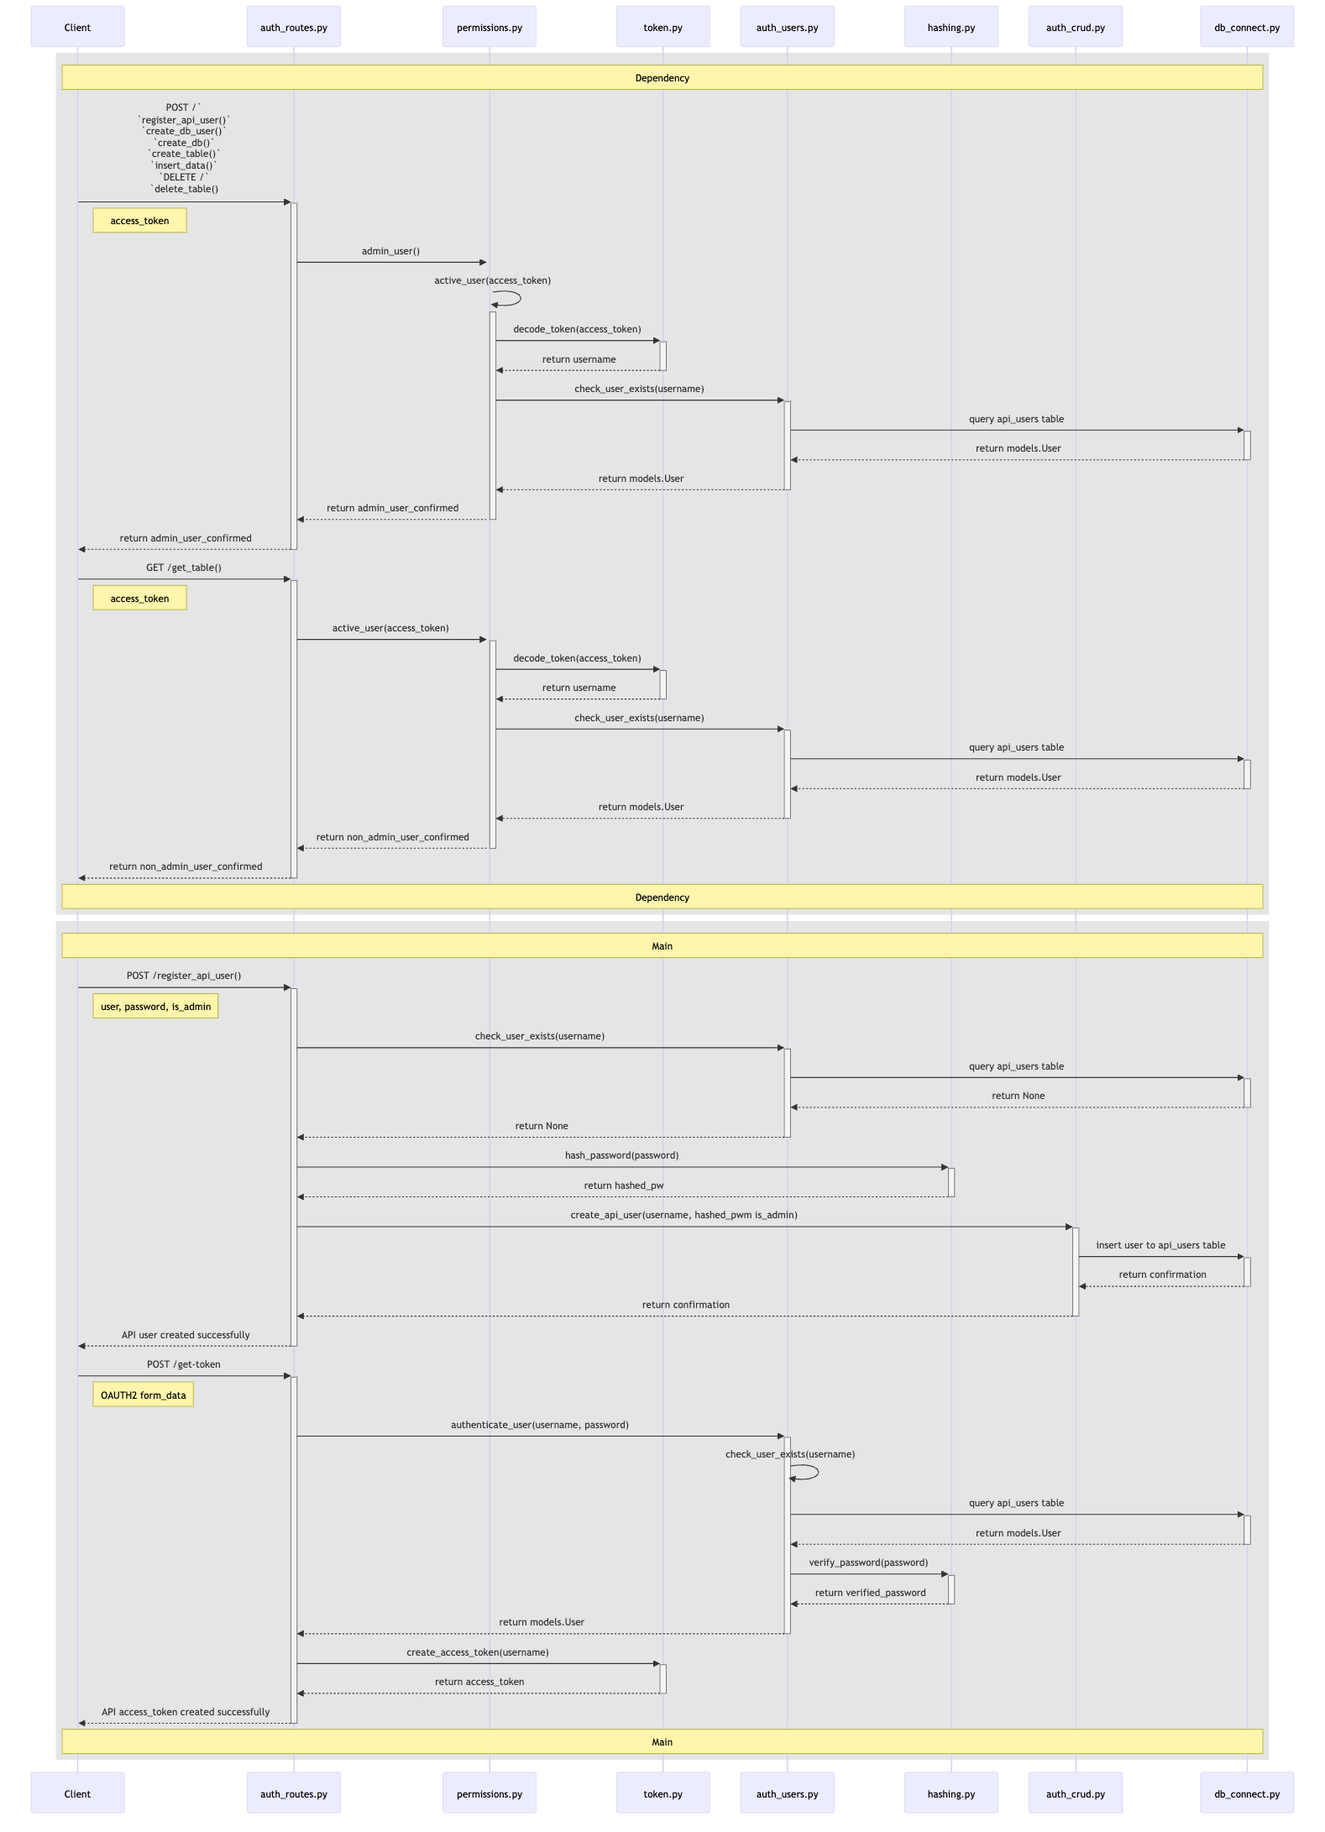
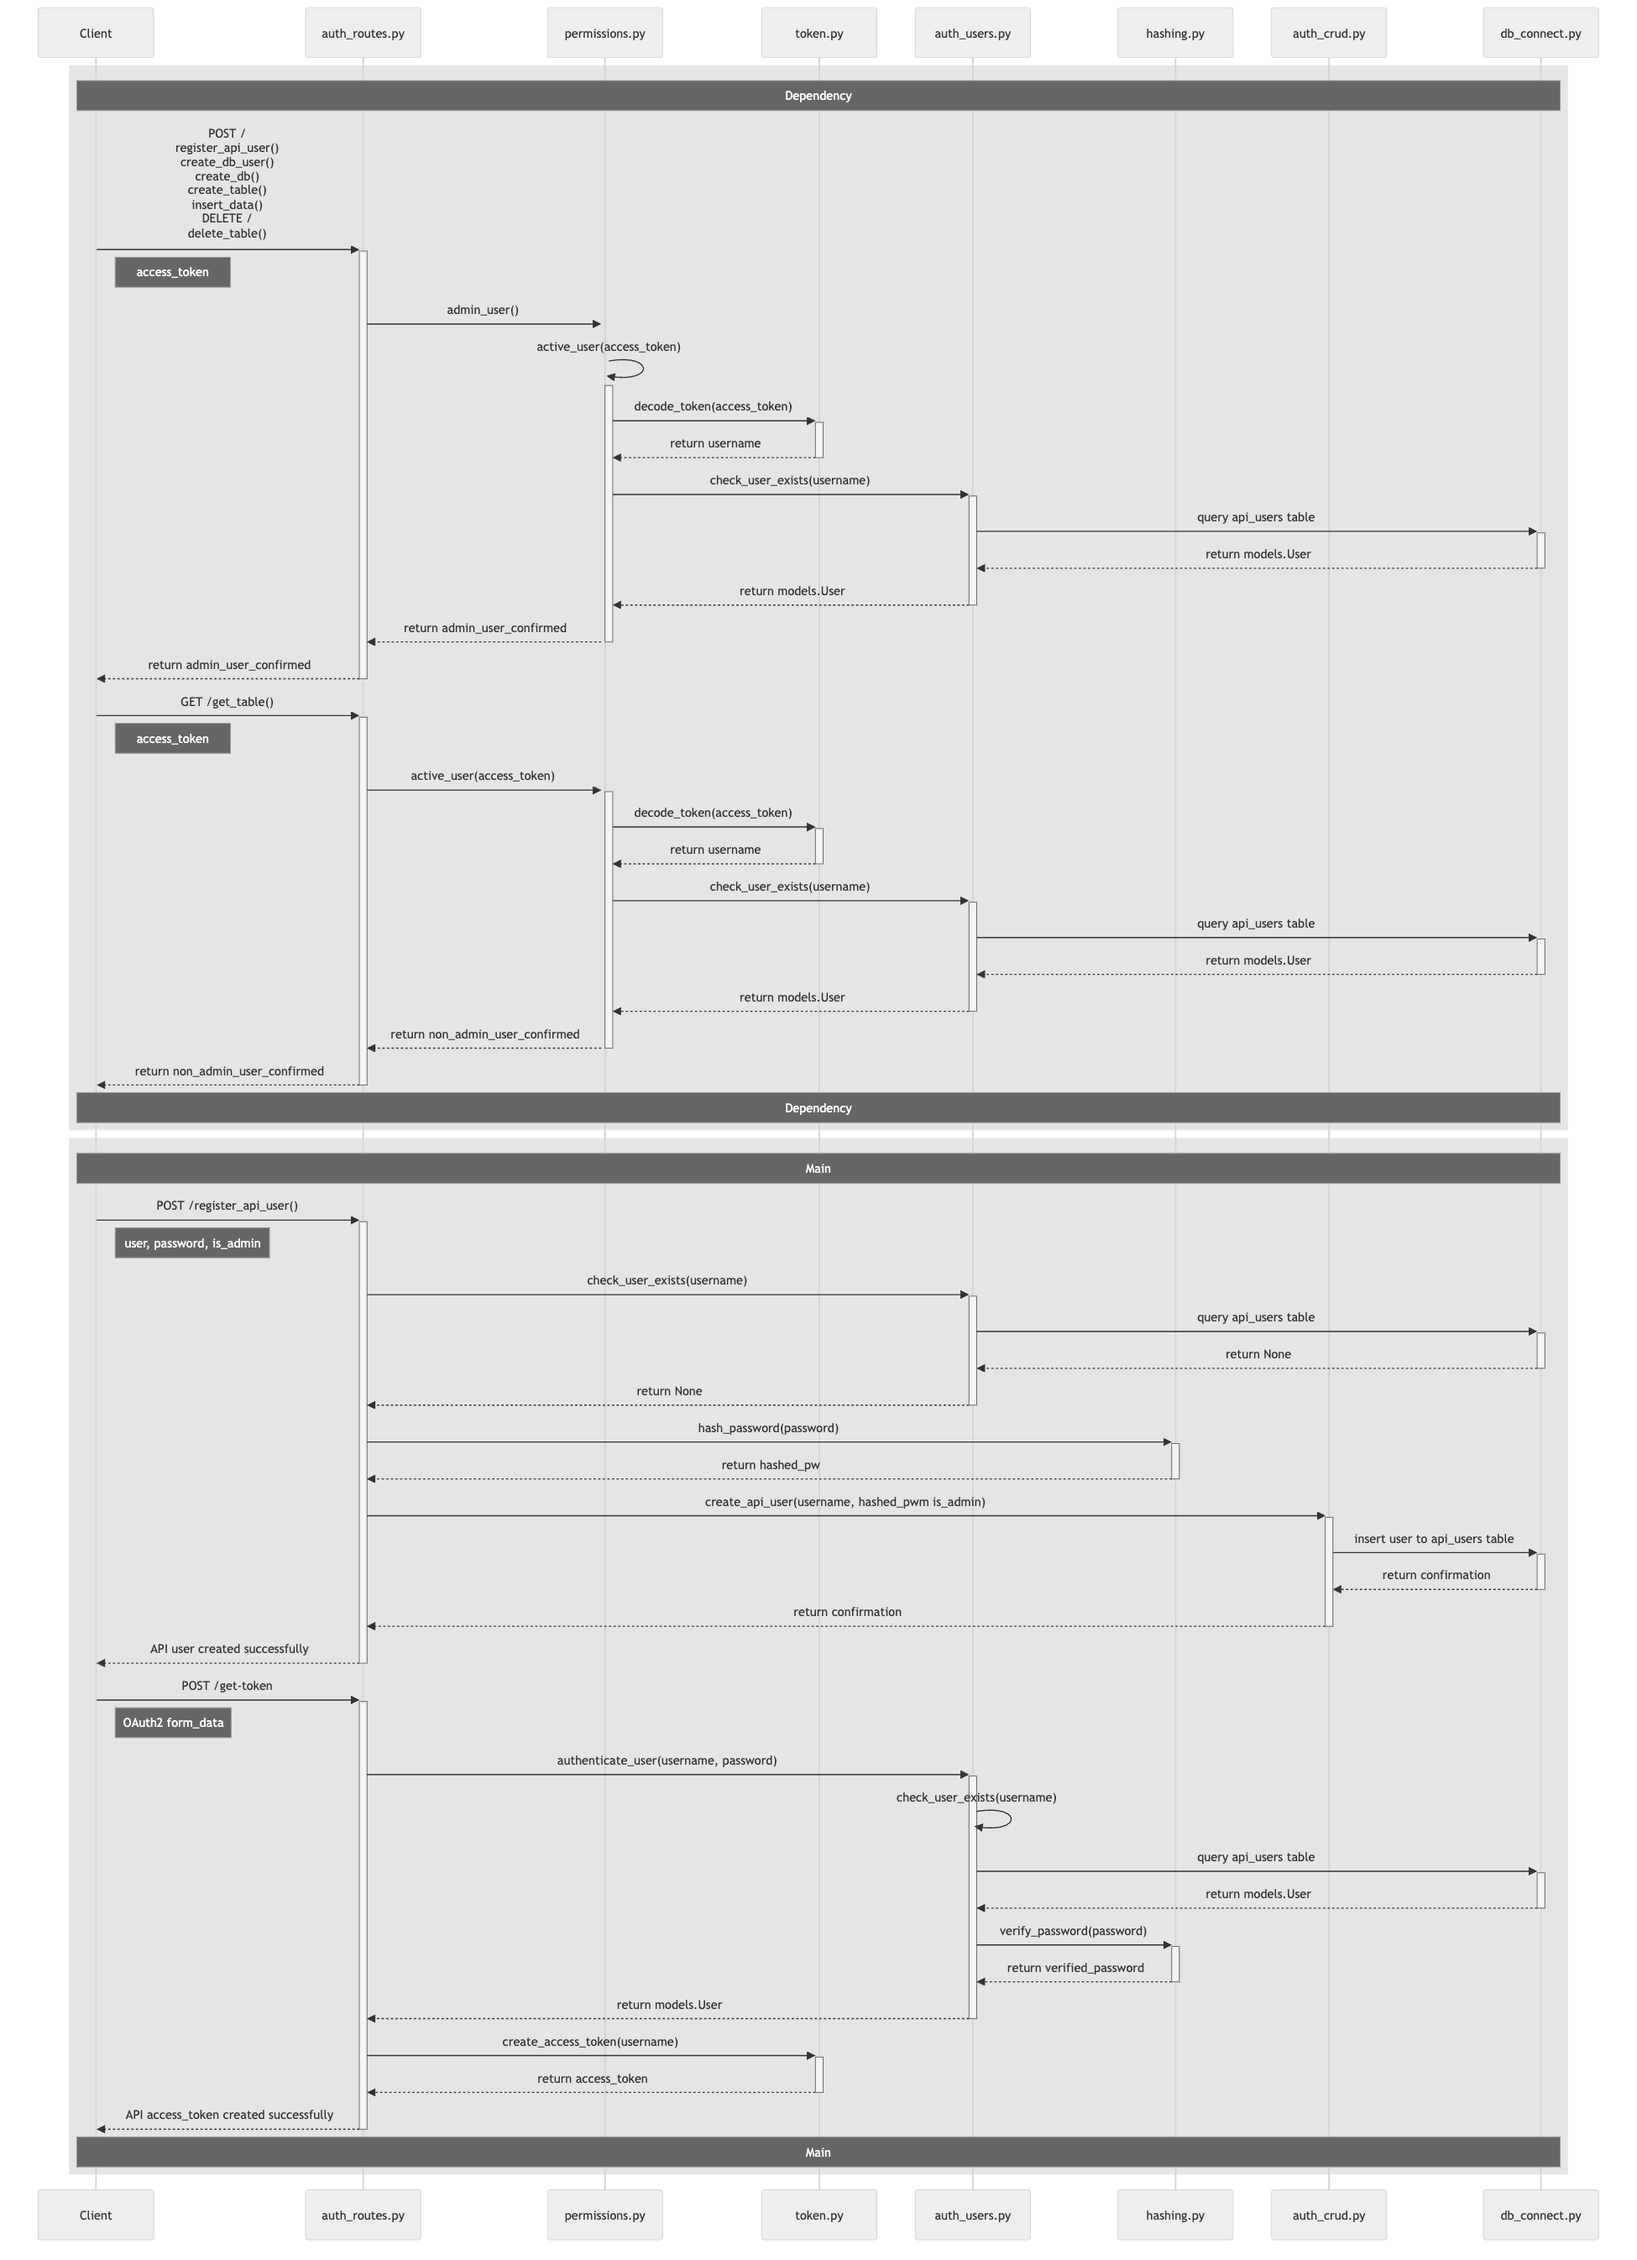
Update API architecture diagrams

diff --git a/diagrams/route_logic.md b/diagrams/route_logic.md
@@ -1,4 +1,11 @@
 ```mermaid
+---
+config:
+  theme: neutral
+  themeVariables:
+    primaryColor: "#00ff00"
+    edgeLabelTextColor: "#000000"
+---
 sequenceDiagram
     autonumber off
     
@@ -14,7 +21,7 @@ sequenceDiagram
     rect rgba(0, 0, 0, 0.1)
     Note over Client,DB: Dependency
 
-    Client->>+Router: POST /`<br/>`register_api_user()`<br/>`create_db_user()`<br/>`create_db()`<br/>`create_table()`<br/>`insert_data()`<br/>`DELETE /`<br/>`delete_table()
+    Client->>+Router: POST /<br/>register_api_user()<br/>create_db_user()<br/>create_db()<br/>create_table()<br/>insert_data()<br/>DELETE /<br/>delete_table()
     Note right of Client: access_token
     Router->>+Permissions: admin_user()
     Permissions->>+Permissions: active_user(access_token)
@@ -60,7 +67,7 @@ sequenceDiagram
     Router-->>-Client: API user created successfully
     
     Client->>+Router: POST /get-token
-    Note right of Client: OAUTH2 form_data
+    Note right of Client: OAuth2 form_data
     Router->>+AuthUsers: authenticate_user(username, password)
     AuthUsers->>AuthUsers: check_user_exists(username)
     AuthUsers->>+DB: query api_users table

diff --git a/README.md b/README.md
@@ -51,6 +51,20 @@ To access protected endpoints, you need to obtain an access token by providing v
 
 ### Logic Flow
 
+The API follows a structured logic flow to handle incoming requests and perform the necessary operations. It includes authentication, permission checks, database operations, and response generation. The logic is separated into two main components: Dependency and Main.
+
+**Dependency Logic** (for all endpoints):
+
+- Validate the access token and extract the user's username.
+- Verify the user's existence and permissions.
+
+**Main Logic** (for `register_api_user` endpoint):
+
+- Confirm the user does not already exist.
+- Hash the user's password and create a new API user.
+
+The diagram below illustrates dependency logic flow for all API endpoints and main logic flow for `register_api_user` and `get-token` endpoints:
+
 ![Endpoint Diagram](./diagrams/api_routes.png)
 
 For detailed information about request and response formats, refer to the API documentation once locally deployed at [http://localhost:8000/docs](http://localhost:8000/docs/).
